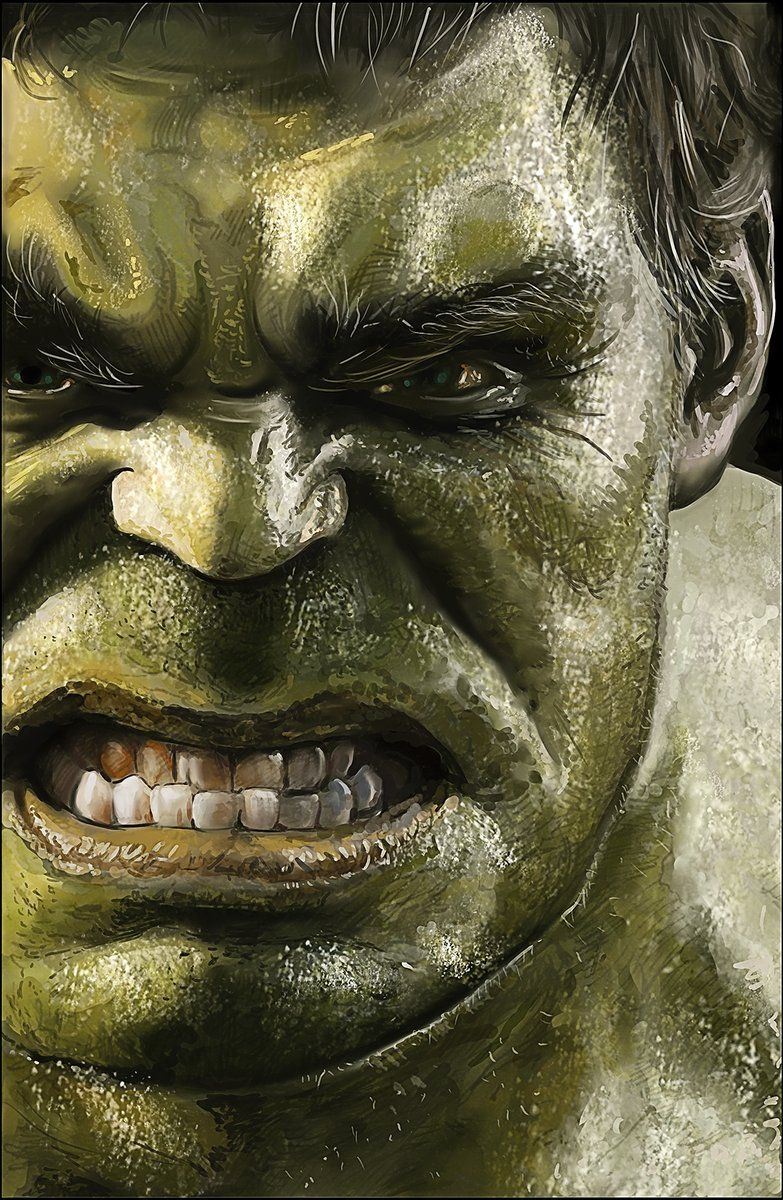
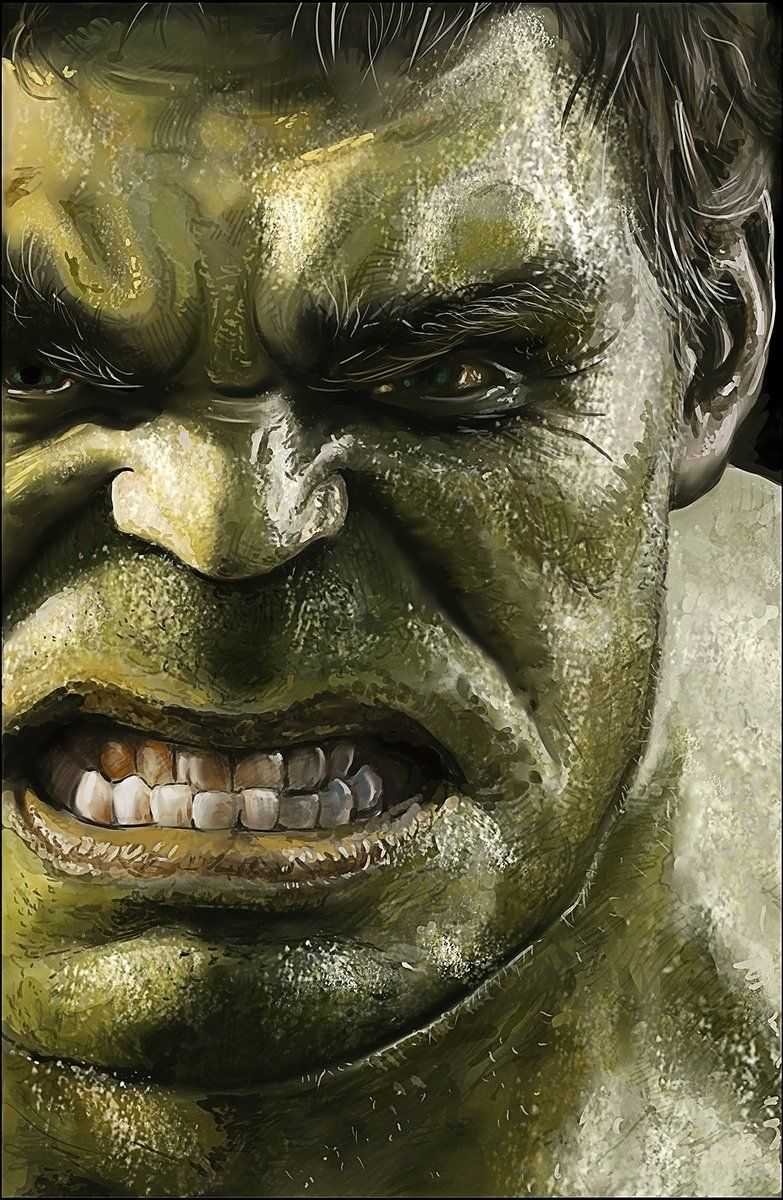
compress

diff --git a/project/avengers/css/style.css b/project/avengers/css/style.css
@@ -70,22 +70,22 @@
     color: white;
 }
 .slide:nth-child(1){
-    background-image: url(../media/image/1.png); 
+    background-image: url(../media/image/1.jpg); 
 }
 .slide:nth-child(2){
-    background-image: url(../media/image/2.png);
+    background-image: url(../media/image/2.jpg);
 }
 .slide:nth-child(3){
-    background-image: url(../media/image/3.png);
+    background-image: url(../media/image/3.jpg);
 }
 .slide:nth-child(4){
-    background-image: url(../media/image/4.png);
+    background-image: url(../media/image/4.jpg);
 }
 .slide:nth-child(5){
-    background-image: url(../media/image/5.png);
+    background-image: url(../media/image/5.jpg);
 }
 .slide:nth-child(6){
-    background-image: url(../media/image/1.png);
+    background-image: url(../media/image/1.jpg);
 }
 @keyframes avn {
     10%{
